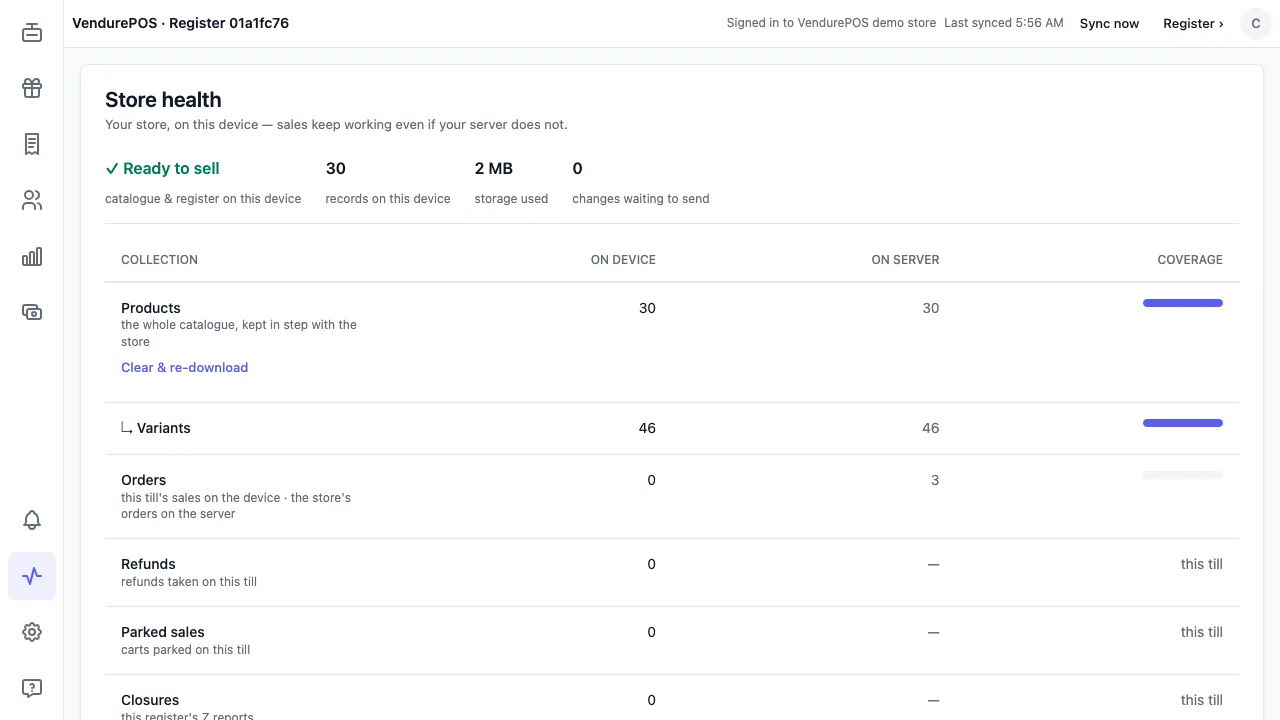
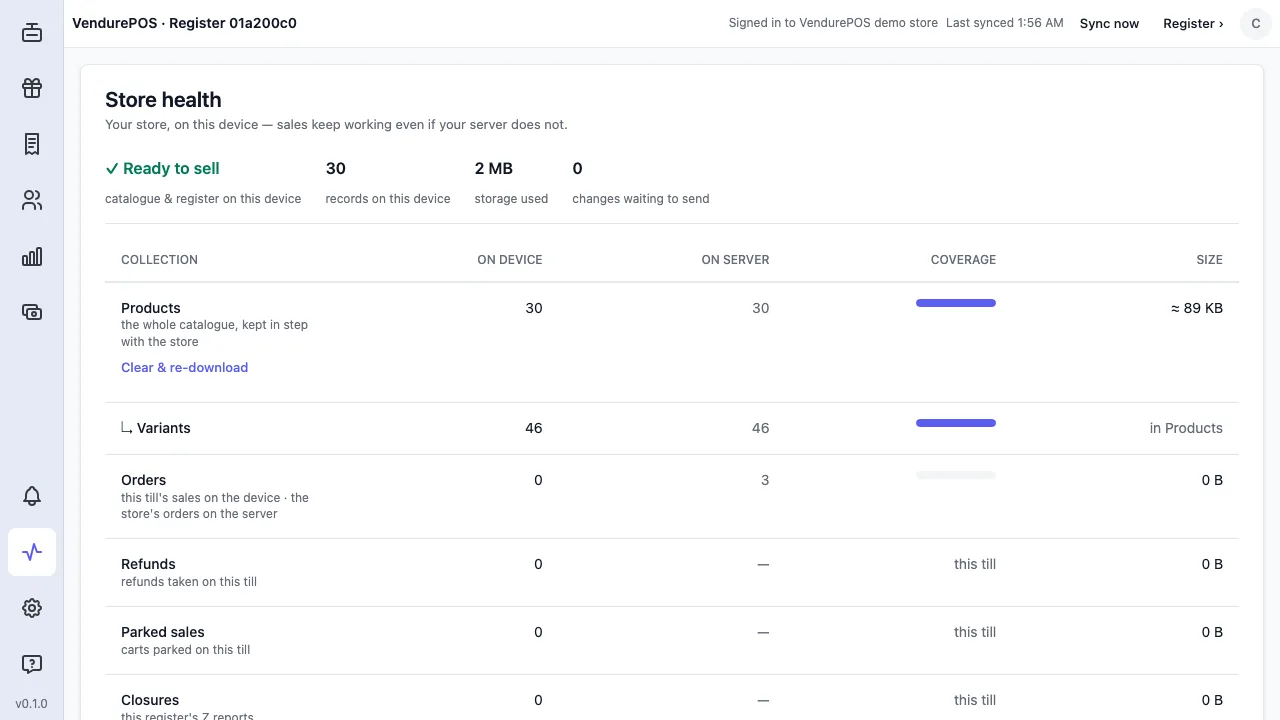
feat(pos): Store health's per-collection Size column via measureCollectionBytes (10.3m)

diff --git a/apps/pos/lib/store-health-panel.tsx b/apps/pos/lib/store-health-panel.tsx
@@ -4,15 +4,16 @@ import {
   Badge, Button, Card, CardContent, CardDescription, CardHeader, CardTitle, Dialog, DialogContent, DialogDescription, DialogTitle, HStack, orderReference, Progress, Table, TableBody, TableCell, TableHead, TableHeader, TableRow, Text, VStack,
 } from '@tallyui/components';
 import { formatMoney } from '@tallyui/core';
+import { measureCollectionBytes } from '@tallyui/database';
 import type { PosOrder } from '@tallyui/pos';
 import type { RxCollection } from 'rxdb';
 import { sessionContext, type Session } from './session';
 import { SyncCadenceCard } from './sync-cadence-card';
-import { confirmRedownload, coveragePercent, formatStorageUsed, readServerTotals, readStorageUsed, recordsOnDevice, redownloadBlocked, redownloadSummary, type AttentionRow, type ReadyToSell, type ServerTotals } from './store-health';
+import { confirmRedownload, coveragePercent, formatCollectionSize, formatStorageUsed, readServerTotals, readStorageUsed, recordsOnDevice, redownloadBlocked, redownloadSummary, type AttentionRow, type ReadyToSell, type ServerTotals } from './store-health';
 
 export function StoreHealthPanel({ session, ready, waiting, productCount, variantCount, catalogueSynced, collections, attention, onRetry, onOpen, onViewLog, onCheckNow, onRedownload, redownloading }: {
   session: Session; ready: ReadyToSell; waiting: number; productCount: number; variantCount: number; catalogueSynced: boolean;
-  collections: { orders: RxCollection | null; refunds: RxCollection | null; parked: RxCollection | null; closures: RxCollection | null };
+  collections: { products: RxCollection | null; orders: RxCollection | null; refunds: RxCollection | null; parked: RxCollection | null; closures: RxCollection | null };
   attention: AttentionRow[]; onRetry: (orderIds: string[]) => Promise<number>; onOpen: (order: PosOrder) => void;
   onViewLog: () => void; onCheckNow: () => Promise<void>; onRedownload: () => Promise<void>; redownloading: boolean;
 }): JSX.Element {
@@ -29,9 +30,9 @@ export function StoreHealthPanel({ session, ready, waiting, productCount, varian
   }
   async function checkNow() {
     setChecking(true);
-    try { await onCheckNow(); } finally { setChecking(false); }
+    try { await onCheckNow(); setMeasureRun(run => run + 1); } finally { setChecking(false); }
   }
-  const { orders, refunds, parked, closures } = collections;
+  const { products, orders, refunds, parked, closures } = collections;
   const [counts, setCounts] = useState<Record<'orders' | 'refunds' | 'parked' | 'closures', number | null>>({ orders: null, refunds: null, parked: null, closures: null });
   useEffect(() => {
     setCounts({ orders: null, refunds: null, parked: null, closures: null });
@@ -40,6 +41,25 @@ export function StoreHealthPanel({ session, ready, waiting, productCount, varian
       sources[key]?.count().$.subscribe(count => setCounts(current => ({ ...current, [key]: count }))));
     return () => subscriptions.forEach(subscription => subscription?.unsubscribe());
   }, [orders, refunds, parked, closures]);
+  // On demand: the panel opens only when the merchant asks. Variants live inside their product's document, so have no size.
+  const [measureRun, setMeasureRun] = useState(0);
+  const [sizes, setSizes] = useState<Record<'products' | 'orders' | 'refunds' | 'parked' | 'closures', number | null | undefined>>({ products: undefined, orders: undefined, refunds: undefined, parked: undefined, closures: undefined });
+  useEffect(() => {
+    setSizes({ products: undefined, orders: undefined, refunds: undefined, parked: undefined, closures: undefined });
+    const controller = new AbortController();
+    const sources = { products, orders, refunds, parked, closures };
+    void (async () => {
+      for (const key of ['products', 'orders', 'refunds', 'parked', 'closures'] as const) {
+        const collection = sources[key];
+        let size: number | null = null;
+        if (collection) try { size = (await measureCollectionBytes(collection, { signal: controller.signal })).bytes; }
+        catch (error) { if (!controller.signal.aborted) console.warn(`Failed to measure ${key}`, error); }
+        if (controller.signal.aborted) return;
+        setSizes(current => ({ ...current, [key]: size }));
+      }
+    })();
+    return () => controller.abort();
+  }, [products, orders, refunds, parked, closures, measureRun]);
   const [totals, setTotals] = useState<ServerTotals>({ products: null, variants: null, orders: null });
   useEffect(() => {
     let cancelled = false;
@@ -120,6 +140,7 @@ export function StoreHealthPanel({ session, ready, waiting, productCount, varian
                 <TableHead className="w-28"><Text className="text-right">On device</Text></TableHead>
                 <TableHead className="w-28"><Text className="text-right">On server</Text></TableHead>
                 <TableHead className="w-28"><Text className="text-right">Coverage</Text></TableHead>
+                <TableHead className="w-24"><Text className="text-right">Size</Text></TableHead>
               </TableRow></TableHeader>
               <TableBody>{rows.map(row => <View key={row.key} testID={`store-health-row-${row.key}`}><TableRow>
                 <TableCell><VStack space="none">
@@ -141,6 +162,8 @@ export function StoreHealthPanel({ session, ready, waiting, productCount, varian
                 <TableCell className="w-28 items-end">{row.coverage === null
                   ? <Text className="text-muted-foreground">this till</Text>
                   : <Progress testID={`store-health-coverage-${row.key}`} value={row.coverage} aria-valuenow={row.coverage} className="h-2 w-20" />}</TableCell>
+                <TableCell className="w-24"><Text testID={`store-health-size-${row.key}`} className={`text-right${row.key === 'variants' ? ' text-muted-foreground' : ''}`}>
+                  {row.key === 'variants' ? 'in Products' : formatCollectionSize(sizes[row.key as keyof typeof sizes])}</Text></TableCell>
               </TableRow></View>)}</TableBody>
             </Table>
             <Button testID="store-health-check-now" variant="outline" className="mt-4 self-start" disabled={checking} onPress={() => void checkNow()}>

diff --git a/apps/pos/lib/use-catalogue.ts b/apps/pos/lib/use-catalogue.ts
@@ -1,6 +1,7 @@
 import { useEffect, useMemo, useState } from 'react';
 import { withStockOverlay, type TallyConnector } from '@tallyui/core';
 import { stockOverlay$, stockOverlayAsOf$ } from '@tallyui/pos';
+import type { RxCollection } from 'rxdb';
 import type { Subscription } from 'rxjs';
 import { catalogueConnector, removeCatalogueDatabaseWithin, startCatalogueSync, stopCatalogueSync } from './catalogue';
 import { sessionKey, type Session } from './session';
@@ -20,6 +21,7 @@ export function useCatalogueConnector(session: Session | null): TallyConnector |
 export function useCatalogue(session: Session): {
   connector: TallyConnector;
   products: any[];
+  productsCollection: RxCollection | null;
   lastSyncedAt: Date | null;
   error: string | null;
   refusal: CatalogueRefusal | null;
@@ -37,6 +39,7 @@ export function useCatalogue(session: Session): {
   // Bumping the generation restarts the sync (Clear & re-download).
   const [generation, setGeneration] = useState(0);
   const [redownloading, setRedownloading] = useState(false);
+  const [productsCollection, setProductsCollection] = useState<RxCollection | null>(null);
   const overlaidProducts = useMemo(() => products.map(doc => withStockOverlay(doc, connector.reconcile?.stock, stockOverlay)), [products, connector, stockOverlay]);
 
   useEffect(() => {
@@ -54,6 +57,7 @@ export function useCatalogue(session: Session): {
     }
     void startCatalogueSync(session, connector).then(({ db, replication, stockLevels, health }) => {
       if (cancelled) return;
+      setProductsCollection(db.products);
       subscriptions.push(db.products.find().$.subscribe((docs) => {
         if (!cancelled) setProducts(docs.map((doc) => doc.toJSON()));
       }));
@@ -83,6 +87,7 @@ export function useCatalogue(session: Session): {
     });
     return () => {
       cancelled = true;
+      setProductsCollection(null);
       subscriptions.forEach((subscription) => subscription.unsubscribe());
       // Queued behind any pending start so its replication is stopped too.
       void stopCatalogueSync().catch((error) => console.warn('Failed to stop catalogue sync', error));
@@ -93,6 +98,7 @@ export function useCatalogue(session: Session): {
   async function redownload(): Promise<'removed' | 'timed_out' | 'failed'> {
     if (redownloading) return 'removed';
     setRedownloading(true);
+    setProductsCollection(null);
     const result = await removeCatalogueDatabaseWithin();
     setProducts([]);
     setLastSyncedAt(null);
@@ -101,5 +107,5 @@ export function useCatalogue(session: Session): {
     return result;
   }
 
-  return { connector, products: overlaidProducts, lastSyncedAt, error: error?.text ?? null, refusal: error?.refusal ?? null, stockOverlay, stockOverlayAsOf, redownloading, redownload };
+  return { connector, products: overlaidProducts, productsCollection, lastSyncedAt, error: error?.text ?? null, refusal: error?.refusal ?? null, stockOverlay, stockOverlayAsOf, redownloading, redownload };
 }

diff --git a/apps/pos/lib/store-health.test.ts b/apps/pos/lib/store-health.test.ts
@@ -1,13 +1,22 @@
 import { describe, expect, it, vi } from 'vitest';
 import type { SyncContext } from '@tallyui/core';
 import type { PosOrder } from '@tallyui/pos';
-import { attentionReason, attentionRows, canSendAgain, changesWaiting, confirmRedownload, coveragePercent, formatStorageUsed, readServerTotals, readStorageUsed, readyToSell, recordsOnDevice, redownloadBlocked, redownloadSummary } from './store-health';
+import { attentionReason, attentionRows, canSendAgain, changesWaiting, confirmRedownload, coveragePercent, formatCollectionSize, formatStorageUsed, readServerTotals, readStorageUsed, readyToSell, recordsOnDevice, redownloadBlocked, redownloadSummary } from './store-health';
 
 it('words storage used in B, KB, MB and GB, in steps of 1024', () => {
   expect(formatStorageUsed(512)).toBe('512 B');
   expect(formatStorageUsed(699 * 1024)).toBe('699 KB');
   expect(formatStorageUsed(33 * 1024 ** 2)).toBe('33 MB');
   expect(formatStorageUsed(1.5 * 1024 ** 3)).toBe('1.5 GB');
+});
+
+it('words a collection size: … while measuring, — when unmeasurable, 0 B when empty, else ≈ its size', () => {
+  expect(formatCollectionSize(undefined)).toBe('…');
+  expect(formatCollectionSize(null)).toBe('—');
+  expect(formatCollectionSize(0)).toBe('0 B');
+  expect(formatCollectionSize(697)).toBe('≈ 697 B');
+  expect(formatCollectionSize(1536)).toBe('≈ 2 KB');
+  expect(formatCollectionSize(5 * 1024 ** 2)).toBe('≈ 5 MB');
 });
 
 it('reads storage used from the estimate, and null when it is missing or fails', async () => {

diff --git a/apps/pos/e2e/demo.spec.ts b/apps/pos/e2e/demo.spec.ts
@@ -1208,6 +1208,13 @@ test("Store health shows Ready to sell, nothing waiting, the products on this de
   await expect(page.getByTestId('store-health-server-variants')).toHaveText(String(demoStore.products().flatMap(product => product.variants).length));
   await expect(page.getByTestId('store-health-coverage-variants')).toHaveAttribute('aria-valuenow', '100');
   await page.mouse.move(480, 0);
+  // 10.3m: each collection's size, measured when the panel opens; variants live in their product's document.
+  await expect(page.getByTestId('store-health-size-products')).toHaveText(/^≈ \d+ (B|KB|MB)$/);
+  await expect(page.getByTestId('store-health-size-variants')).toHaveText('in Products');
+  for (const key of ['orders', 'refunds', 'parked', 'closures']) {
+    await expect(page.getByTestId(`store-health-size-${key}`)).toHaveText(/^(0 B|≈ \d+ (B|KB|MB))$/);
+  }
+  await page.screenshot({ path: test.info().outputPath('13m-store-health-size-vendurepos.png') });
   await page.screenshot({ path: test.info().outputPath('13l-store-health-variants-vendurepos.png') });
   await expect(page.getByTestId('store-health-server-refunds')).toHaveText('—');
   await page.getByTestId('store-health-open').click();

diff --git a/apps/pos/app/index.tsx b/apps/pos/app/index.tsx
@@ -416,7 +416,7 @@ function SignedInCatalogue({ session, signOut }: { session: Session; signOut(): 
         ready={readyToSell({ catalogueSynced: !!catalogue.lastSyncedAt, signedOut: sessionEnded, settingsReady: saleSettings.status === 'ready', ordersOpen: outbox.orders !== null })}
         waiting={changesWaiting(outbox.state, registerOutbox.state)} productCount={catalogue.products.length}
         variantCount={catalogue.products.reduce((total, product) => total + (Array.isArray(product.variants) ? product.variants.length : 0), 0)} catalogueSynced={!!catalogue.lastSyncedAt}
-        collections={{ orders: outbox.orders, refunds: registerStore?.refunds ?? null, parked: drafts, closures: registerStore?.closures ?? null }}
+        collections={{ products: catalogue.productsCollection, orders: outbox.orders, refunds: registerStore?.refunds ?? null, parked: drafts, closures: registerStore?.closures ?? null }}
         onCheckNow={() => syncNow([outbox, registerOutbox], refreshCatalogue)}
         redownloading={catalogue.redownloading}
         onRedownload={async () => {

diff --git a/apps/pos/lib/store-health.ts b/apps/pos/lib/store-health.ts
@@ -32,6 +32,13 @@ export function formatStorageUsed(bytes: number): string {
   return `${(bytes / 1024 ** 3).toFixed(1)} GB`;
 }
 
+/** A collection's measured size: undefined while measuring (…), null when unmeasurable (—), else ≈ its storage size. */
+export function formatCollectionSize(bytes: number | null | undefined): string {
+  if (bytes === undefined) return '…';
+  if (bytes === null) return '—';
+  return bytes === 0 ? '0 B' : `≈ ${formatStorageUsed(bytes)}`;
+}
+
 /** Browser storage used for this origin, or null when its estimate is unavailable. */
 export async function readStorageUsed(storage: { estimate?: () => Promise<{ usage?: number }> } | undefined): Promise<number | null> {
   if (!storage?.estimate) return null;

diff --git a/apps/pos/lib/forbidden-pull.test.ts b/apps/pos/lib/forbidden-pull.test.ts
@@ -35,7 +35,7 @@ it('asks to sign in again with the sign-in words when the store answers a produc
   vi.mocked(useState).mockReturnValueOnce([[], vi.fn()])
     .mockReturnValueOnce([null, setLastSyncedAt]).mockReturnValueOnce([null, setError])
     .mockReturnValueOnce([undefined, vi.fn()]).mockReturnValueOnce([undefined, vi.fn()])
-    .mockReturnValueOnce([0, vi.fn()]).mockReturnValueOnce([false, vi.fn()]);
+    .mockReturnValueOnce([0, vi.fn()]).mockReturnValueOnce([false, vi.fn()]).mockReturnValueOnce([null, vi.fn()]);
   vi.mocked(useMemo).mockImplementation((create) => create());
   let cleanup: (() => void) | void = undefined;
   vi.mocked(useEffect).mockImplementationOnce((effect) => { cleanup = effect(); });

diff --git a/apps/pos/lib/unauthorized-pull.test.ts b/apps/pos/lib/unauthorized-pull.test.ts
@@ -35,7 +35,7 @@ it('shows the session-ended notice when the store answers a product pull with 40
   vi.mocked(useState).mockReturnValueOnce([[], vi.fn()])
     .mockReturnValueOnce([null, setLastSyncedAt]).mockReturnValueOnce([null, setError])
     .mockReturnValueOnce([undefined, vi.fn()]).mockReturnValueOnce([undefined, vi.fn()])
-    .mockReturnValueOnce([0, vi.fn()]).mockReturnValueOnce([false, vi.fn()]);
+    .mockReturnValueOnce([0, vi.fn()]).mockReturnValueOnce([false, vi.fn()]).mockReturnValueOnce([null, vi.fn()]);
   vi.mocked(useMemo).mockImplementation((create) => create());
   let cleanup: (() => void) | void = undefined;
   vi.mocked(useEffect).mockImplementationOnce((effect) => { cleanup = effect(); });
